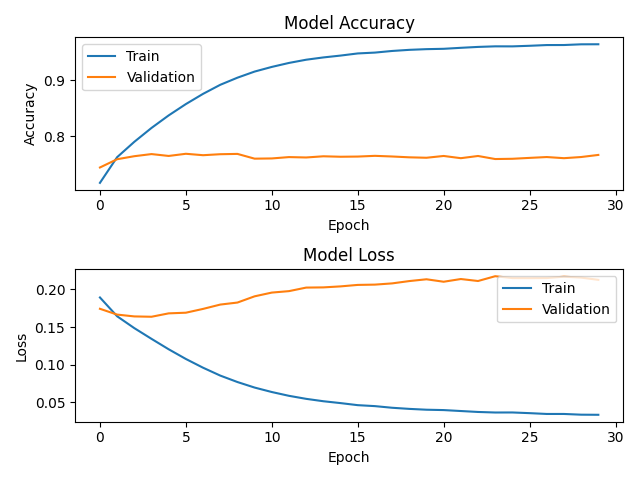
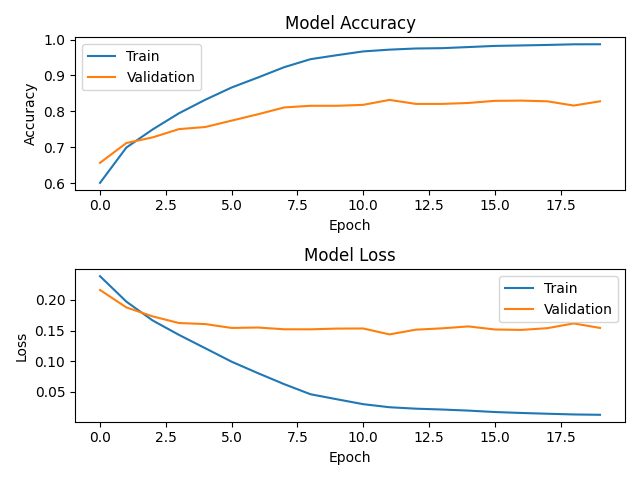
update

diff --git a/keras_implement/train.py b/keras_implement/train.py
@@ -15,26 +15,59 @@ from keras.layers import Input, Embedding, LSTM, Dense, Flatten, Activation, Rep
 from keras.layers.merge import multiply, concatenate
 import keras.backend as K
 
-from model.model import shared_model
+from model.model import shared_model, shared_model_cnn
 
-from utils import ManDist, load_file_npy
+from utils import make_w2v_embeddings, split_and_zero_padding, ManDist, load_data, load_word2vec
 from config import config
 
+
+# def preprocessing_data(data, embedding_dict, flag, embedding_dim, max_seq_length=MAX_SEQ_LENGTH, split_ratio=SPLIT_RATIO):
+#     train_df, embeddings = make_w2v_embeddings(flag, embedding_dict, data, embedding_dim=embedding_dim)
+#     X = train_df[['question1_n', 'question2_n']]
+#     Y = train_df['is_duplicate']
+
+#     X_train, X_validation, Y_train, Y_validation = train_test_split(X, Y, test_size=split_ratio)
+#     X_train = split_and_zero_padding(X_train, max_seq_length)
+#     X_validation = split_and_zero_padding(X_validation, max_seq_length)
+
+#     Y_train = Y_train.values
+#     Y_validation = Y_validation.values
+
+#     assert X_train['left'].shape == X_train['right'].shape
+#     assert len(X_train['left']) == len(Y_train)
+
+#     return X_train, Y_train, X_validation, Y_validation, embeddings
+
+def load_file_npy(file_path):
+    import numpy as np
+    with open(file_path, "rb") as f:
+        return np.load(f)
 
 if __name__ == '__main__':
 
     parser = argparse.ArgumentParser()
-    parser.add_argument("--save_model", default="./en_SiameseLSTM_no_time.h5", type=str, help="Save model")
+    # parser.add_argument("--train_data", default="../../data_quora/quora_train_10000.csv", type=str, help="Path of training and dev data")
+    # parser.add_argument("--embedding_path", default="./GoogleNews-vectors-negative300.bin.gz", type=str, help="Path of word to vector")
+    parser.add_argument("--save_model", default="./en_SiameseLSTM.h5", type=str, help="Save model")
     parser.add_argument("--plot_training", action="store_true", help="Plot history training")
     args = parser.parse_args()
+
+    # embedding_dict = load_word2vec(path_file=args.embedding_path)
+
+    # train_df = load_data(path_file=args.train_data)
+
+    # X_train, Y_train, X_validation, Y_validation, embeddings = preprocessing_data(data=train_df, embedding_dict=embedding_dict, flag=FLAG, embedding_dim=EMBEDDING_DIM)
 
     X_train_left = load_file_npy(config["source"]["train"]["sentence_1"])
     X_train_right = load_file_npy(config["source"]["train"]["sentence_2"])
     Y_train = load_file_npy(config["source"]["train"]["label"])
+    print(len(Y_train))
+    assert X_train_left.shape[0] == X_train_right.shape[0] == len(Y_train) 
 
-    X_dev_left = load_file_npy(config["source"]["dev"]["sentence_1"])
-    X_dev_right = load_file_npy(config["source"]["dev"]["sentence_2"])
-    Y_dev = load_file_npy(config["source"]["dev"]["label"])
+    X_dev_left = load_file_npy(config["source"]["test"]["sentence_1"])
+    X_dev_right = load_file_npy(config["source"]["test"]["sentence_2"])
+    Y_dev = load_file_npy(config["source"]["test"]["label"])
+    print(len(Y_dev))
 
     embeddings = load_file_npy(config["model"]["embeddings"])
 
@@ -85,7 +118,7 @@ if __name__ == '__main__':
         plt.legend(['Train', 'Validation'], loc='upper right')
 
         plt.tight_layout(h_pad=1.0)
-        plt.savefig('./history-graph_no_time.png')
+        plt.savefig('./history-graph.png')
 
         
         print(str(malstm_trained.history['val_accuracy'][-1])[:6] +

diff --git a/pytorch_implement/dataset.py b/pytorch_implement/dataset.py
@@ -5,7 +5,12 @@ import pandas as pd
 import numpy as np
 from sklearn.model_selection import train_test_split
 from config import config
-from utils import load_file_npy
+
+# from util import load_data, load_word2vec, make_w2v_embeddings, split_and_zero_padding
+
+def load_file(path_file):
+    with open(path_file, "rb") as f:
+        return np.load(f)
 
 class SiameseLSTMDataset(Dataset):
     def __init__(self, config, model):
@@ -13,24 +18,24 @@ class SiameseLSTMDataset(Dataset):
         super(SiameseLSTMDataset, self).__init__()
         if model == "train":
 
-            self.X_left = load_file_npy(config["source"]["train"]["sentence_1"])
-            self.X_right = load_file_npy(config["source"]["train"]["sentence_2"])
+            self.X_left = load_file(config["source"]["train"]["sentence_1"])
+            self.X_right = load_file(config["source"]["train"]["sentence_2"])
 
-            self.Y = load_file_npy(config["source"]["train"]["label"])
+            self.Y = load_file(config["source"]["train"]["label"])
 
         elif model == "dev":
 
-            self.X_left = load_file_npy(config["source"]["dev"]["sentence_1"])
-            self.X_right = load_file_npy(config["source"]["dev"]["sentence_2"])
+            self.X_left = load_file(config["source"]["dev"]["sentence_1"])
+            self.X_right = load_file(config["source"]["dev"]["sentence_2"])
 
-            self.Y = load_file_npy(config["source"]["dev"]["label"])
+            self.Y = load_file(config["source"]["dev"]["label"])
         
         else:
 
-            self.X_left = load_file_npy(config["source"]["test"]["sentence_1"])
-            self.X_right = load_file_npy(config["source"]["test"]["sentence_2"])
+            self.X_left = load_file(config["source"]["test"]["sentence_1"])
+            self.X_right = load_file(config["source"]["test"]["sentence_2"])
 
-            self.Y = load_file_npy(config["source"]["test"]["label"])
+            self.Y = load_file(config["source"]["test"]["label"])
 
 
     def __len__(self):

diff --git a/pytorch_implement/train.py b/pytorch_implement/train.py
@@ -7,9 +7,8 @@ from torch.utils.data import DataLoader, SequentialSampler, RandomSampler
 
 from config import config
 from dataset import SiameseLSTMDataset
-from model import SiameseLSTM
+from model_attention import SiameseLSTM
 
-from utils import load_file_npy
 # from sklearn.metrics import accuracy_score
 
 
@@ -31,8 +30,8 @@ def train(data_loader, model, optimizer, loss_fn, loss_previous, epoch, device):
             loss = loss_train
             
             torch.save(model.state_dict(), f"./best_model_train/model.pth")
-        if step%20 == 0:
-            print(f"Loss train: {loss_train:.4f} at epoch {epoch}")
+        if step%1 == 0:
+            print(f"Loss train: {loss_train/len(label):.4f} at epoch {epoch}")
         loss_train.backward()
         optimizer.step()
     return loss
@@ -71,12 +70,15 @@ def main(config):
     train_sampler = RandomSampler(train_dataset)
     train_loader = DataLoader(train_dataset, batch_size=config["model"]["batch_size"], sampler=train_sampler)
 
-    dev_dataset = SiameseLSTMDataset(config, "dev")
+    dev_dataset = SiameseLSTMDataset(config, "test")
     print(len(dev_dataset))
     dev_sampler = SequentialSampler(dev_dataset)
     dev_loader = DataLoader(dev_dataset, batch_size=config["model"]["batch_size"], sampler=dev_sampler)
 
     model = SiameseLSTM(config).double().to(device=device)
+
+    # if True:
+    #     model.load_state_dict(torch.load("./best_model_eval/model_acc_83.3276.pth"))
 
     # optimizer = torch.optim.Adam(lr=1e-5, betas=(0.9, 0.98), eps=1e-9)
     param_optimizer = list(model.named_parameters())
@@ -88,7 +90,7 @@ def main(config):
         'weight_decay_rate': 0.0}
     ]
 
-    optimizer = torch.optim.Adam(lr=1e-5, betas=(0.9, 0.98), eps=1e-9, params=optimizer_grouped_parameters)
+    optimizer = torch.optim.Adam(lr=1e-2, betas=(0.9, 0.98), eps=1e-9, params=optimizer_grouped_parameters)
     loss_fn = nn.BCELoss()
     
     acc_dev_previous = 0

diff --git a/pytorch_implement/config.py b/pytorch_implement/config.py
@@ -2,19 +2,19 @@ config = {
     "source": {
         "word2vec": "../GoogleNews-vectors-negative300.bin.gz",
         "train": {
-          "sentence_1": "../data/train/sentence_1.npy",
-          "sentence_2": "../data/train/sentence_2.npy",
-          "label": "../data/train/label.npy"
+          "sentence_1": "../../../data_quora/data_mini/numpy/train/sentence_1.npy",
+          "sentence_2": "../../../data_quora/data_mini/numpy/train/sentence_2.npy",
+          "label": "../../../data_quora/data_mini/numpy/train/label.npy"
         },
         "dev": {
-          "sentence_1": "../data/dev/sentence_1.npy",
-          "sentence_2": "../data/dev/sentence_2.npy",
-          "label": "../data/dev/label.npy"
+          "sentence_1": "../../../data_quora/data_mini/numpy/dev/sentence_1.npy",
+          "sentence_2": "../../../data_quora/data_mini/numpy/dev/sentence_2.npy",
+          "label": "../../../data_quora/data_mini/numpy/dev/label.npy"
         },
         "test": {
-          "sentence_1": "../data/test/sentence_1.npy",
-          "sentence_2": "../data/test/sentence_2.npy",
-          "label": "../data/test/label.npy"
+          "sentence_1": "../../../data_quora/data_mini/numpy/test/sentence_1.npy",
+          "sentence_2": "../../../data_quora/data_mini/numpy/test/sentence_2.npy",
+          "label": "../../../data_quora/data_mini/numpy/test/label.npy"
         }
     },
     "model": {
@@ -25,7 +25,8 @@ config = {
         "num_layers": 2,
         "bidirectional": True,
         "dropout": 0.2,
-        "embeddings": "../data/embeddings.npy",
-        "epoch": 2
+        "embeddings": "../../../data_quora/data_mini/embeddings.npy",
+        "epoch": 30,
+        "attention_size" : 700
     }
 }

diff --git a/keras_implement/config.py b/keras_implement/config.py
@@ -2,19 +2,19 @@ config = {
     "source": {
         "word2vec": "../GoogleNews-vectors-negative300.bin.gz",
         "train": {
-          "sentence_1": "./data/train/sentence_1.npy",
-          "sentence_2": "./data/train/sentence_2.npy",
-          "label": "./data/train/label.npy"
+          "sentence_1": "../../data_quora/data_mini/numpy/train/sentence_1.npy",
+          "sentence_2": "../../data_quora/data_mini/numpy/train/sentence_2.npy",
+          "label": "../../data_quora/data_mini/numpy/train/label.npy"
         },
         "dev": {
-          "sentence_1": "./data/dev/sentence_1.npy",
-          "sentence_2": "./data/dev/sentence_2.npy",
-          "label": "./data/dev/label.npy"
+          "sentence_1": "../../data_quora/data_mini/numpy/dev/sentence_1.npy",
+          "sentence_2": "../../data_quora/data_mini/numpy/dev/sentence_2.npy",
+          "label": "../../data_quora/data_mini/numpy/dev/label.npy"
         },
         "test": {
-          "sentence_1": "./data/test/sentence_1.npy",
-          "sentence_2": "./data/test/sentence_2.npy",
-          "label": "./data/test/label.npy"
+          "sentence_1": "../../data_quora/data_mini/numpy/test/sentence_1.npy",
+          "sentence_2": "../../data_quora/data_mini/numpy/test/sentence_2.npy",
+          "label": "../../data_quora/data_mini/numpy/test/label.npy"
         }
     },
     "model": {
@@ -25,7 +25,7 @@ config = {
         "num_layers": 2,
         "bidirectional": True,
         "dropout": 0.2,
-        "embeddings": "./data/embeddings.npy",
+        "embeddings": "../../data_quora/data_mini/embeddings.npy",
         "epoch": 20
     }
 }

diff --git a/keras_implement/evaluate.py b/keras_implement/evaluate.py
@@ -8,14 +8,36 @@ import matplotlib.pyplot as plt
 
 import keras
 from gensim.models import KeyedVectors
-from utils import load_model, load_file_npy
+from utils import make_w2v_embeddings, split_and_zero_padding, ManDist, load_word2vec, load_data, load_model
+# from config import EMBEDDING_DIM, MAX_SEQ_LENGTH, FLAG, SPLIT_RATIO, BATCH_SIZE, N_EPOCH, N_HIDDEN
 from config import config
+
+def load_file_npy(file_path):
+    import numpy as np
+    with open(file_path, "rb") as f:
+        return np.load(f)
 
 if __name__ == '__main__':
 
     parser = argparse.ArgumentParser()
+    parser.add_argument("--test_data", default="../../data_quora/quora_test_new.csv", type=str, help="Path of test data")
+    parser.add_argument("--embedding_path", default="./GoogleNews-vectors-negative300.bin.gz", type=str, help="Path of word to vector")
     parser.add_argument("--model_path", default="./en_SiameseLSTM_no_time.h5", type=str, help="Model path")
     args = parser.parse_args()
+
+    # embedding_dict = load_word2vec(path_file=args.embedding_path)
+
+    # test_df = load_data(args.test_data)
+
+    # test_df, embeddings = make_w2v_embeddings(FLAG, embedding_dict, test_df, embedding_dim=EMBEDDING_DIM)
+
+    # X_test = split_and_zero_padding(test_df, MAX_SEQ_LENGTH)
+    # Y_test = test_df['is_duplicate'].values
+
+    # assert X_test['left'].shape == X_test['right'].shape
+    # assert len(X_test['left']) == len(Y_test)
+
+    #load data
 
     X_test_left = load_file_npy(config["source"]["test"]["sentence_1"])
     X_test_right = load_file_npy(config["source"]["test"]["sentence_2"])

diff --git a/keras_implement/utils.py b/keras_implement/utils.py
@@ -162,9 +162,5 @@ def load_data(path_file):
 def load_model(file_path):
     model = keras.models.load_model(file_path, custom_objects={"ManDist": ManDist})
     model.summary()
-    return model
 
-def load_file_npy(file_path):
-    import numpy as np
-    with open(file_path, "rb") as f:
-        return np.load(f)
+    return model
